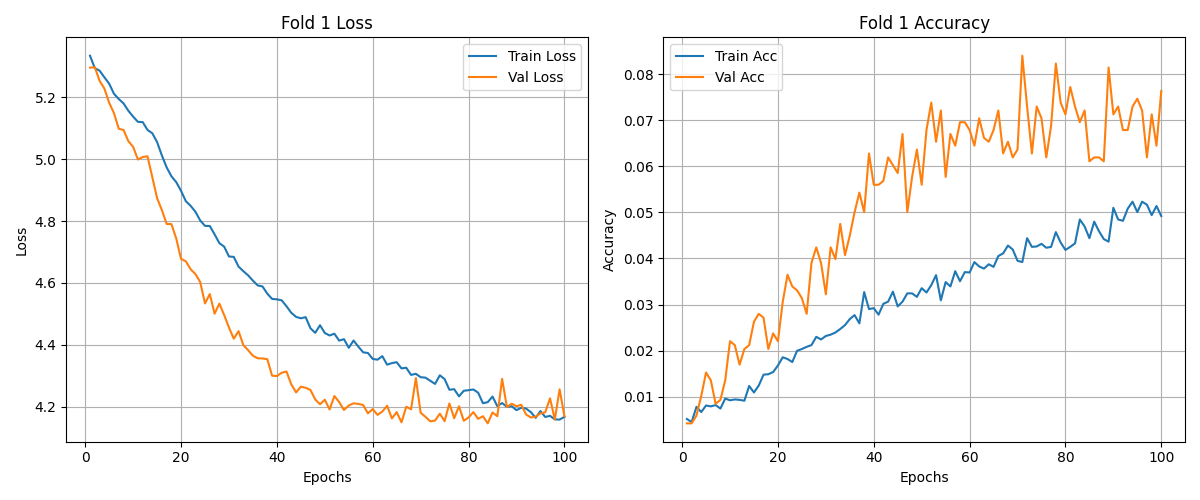
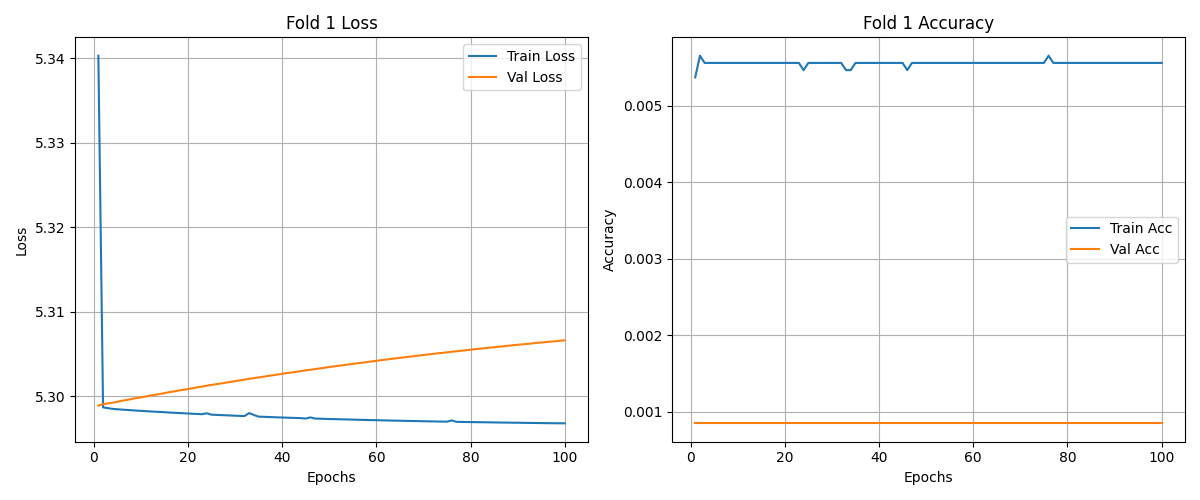
back to 3rd params

diff --git a/main.py b/main.py
@@ -167,7 +167,7 @@ def train(data_root, epochs, batch_size, lr, num_folds=10):
 if __name__ == "__main__":
     data_root = "data/CUB_200_2011"
     epochs = 100
-    batch_size = 64
+    batch_size = 256
     lr = 1e-4
     num_folds = 1
 

diff --git a/log.md b/log.md
@@ -204,7 +204,7 @@ transforms.Compose(
 )
 ~~~
 
-![](./results/5.png)
+![](./results/6.png)
 
 
 
@@ -231,4 +231,29 @@ transforms.Compose(
 )
 ~~~
 
-![](./results/6.png)
+![](./results/7.png)
+
+
+
+# 设置 batch_size=256
+
+Best Val Acc: 0.1578
+
+表现比第三轮更好，说明确实是 batch_size 的问题
+
+~~~python
+epochs = 100
+batch_size = 256
+lr = 1e-4
+
+transforms.Compose(
+    [
+        transforms.Resize(256),
+        transforms.CenterCrop(224),
+        transforms.ToTensor(),
+        transforms.Normalize(mean=[0.485, 0.456, 0.406], std=[0.229, 0.224, 0.225]),
+    ]
+)
+~~~
+
+![](./results/8.png)
